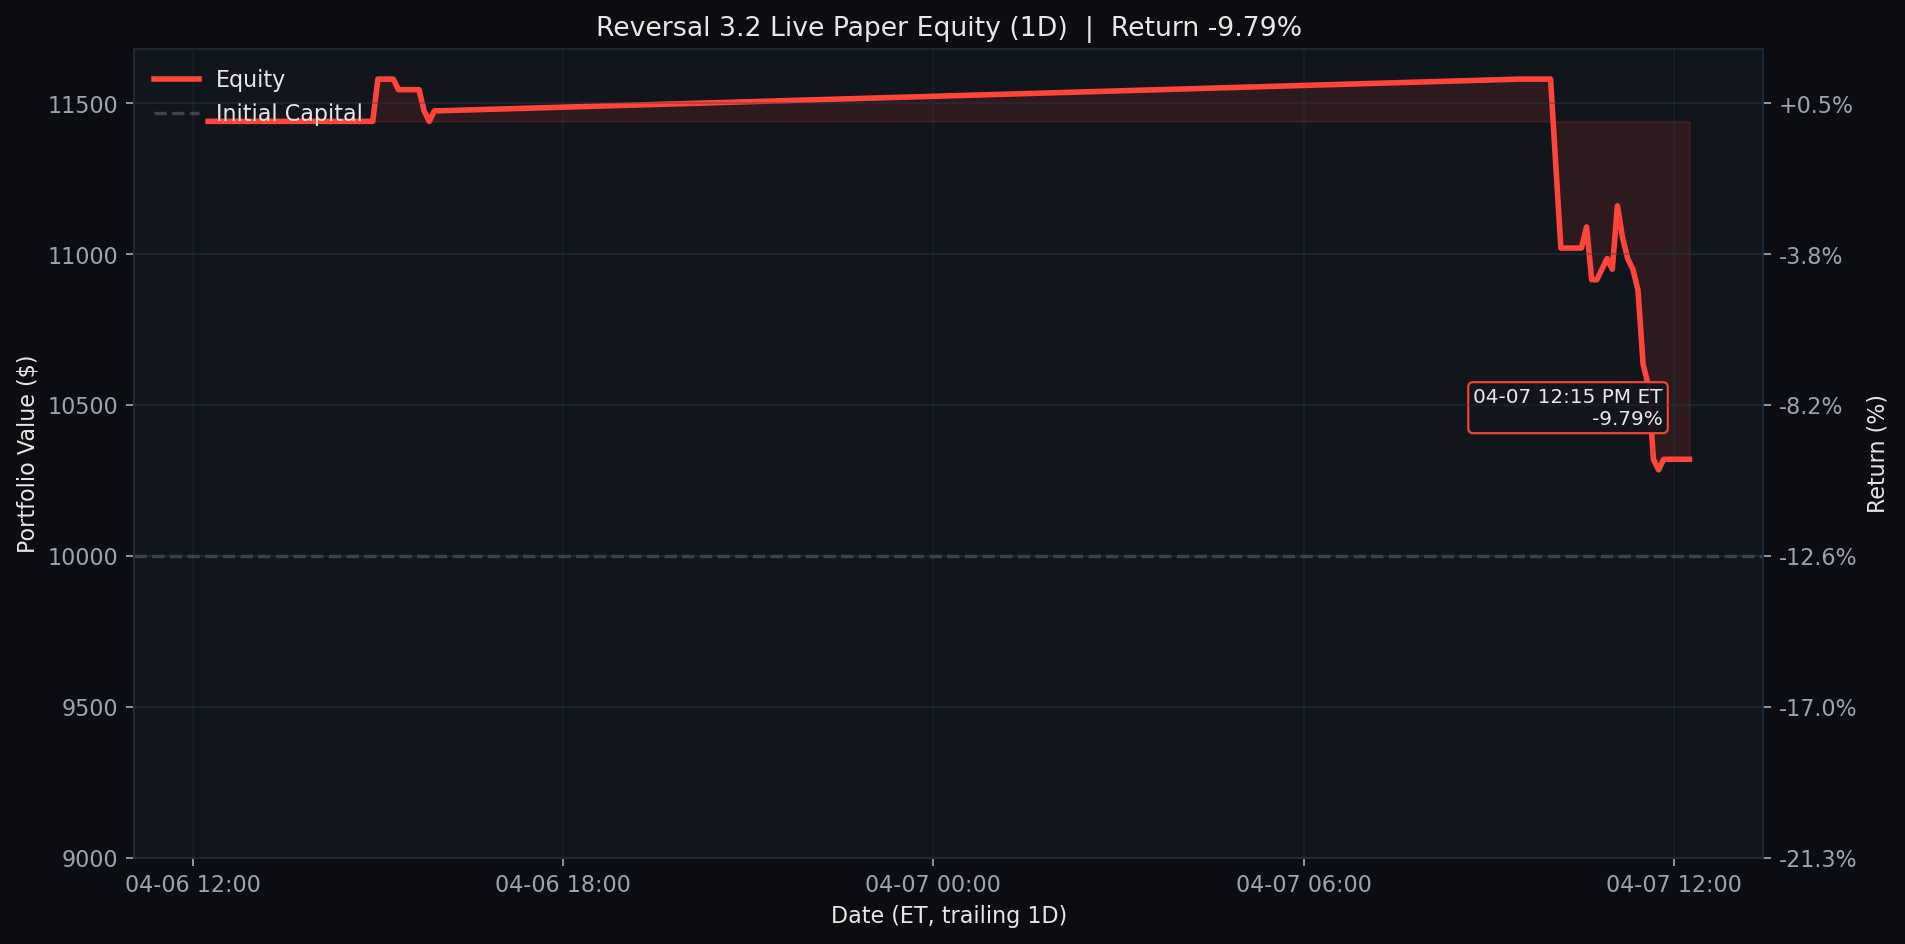
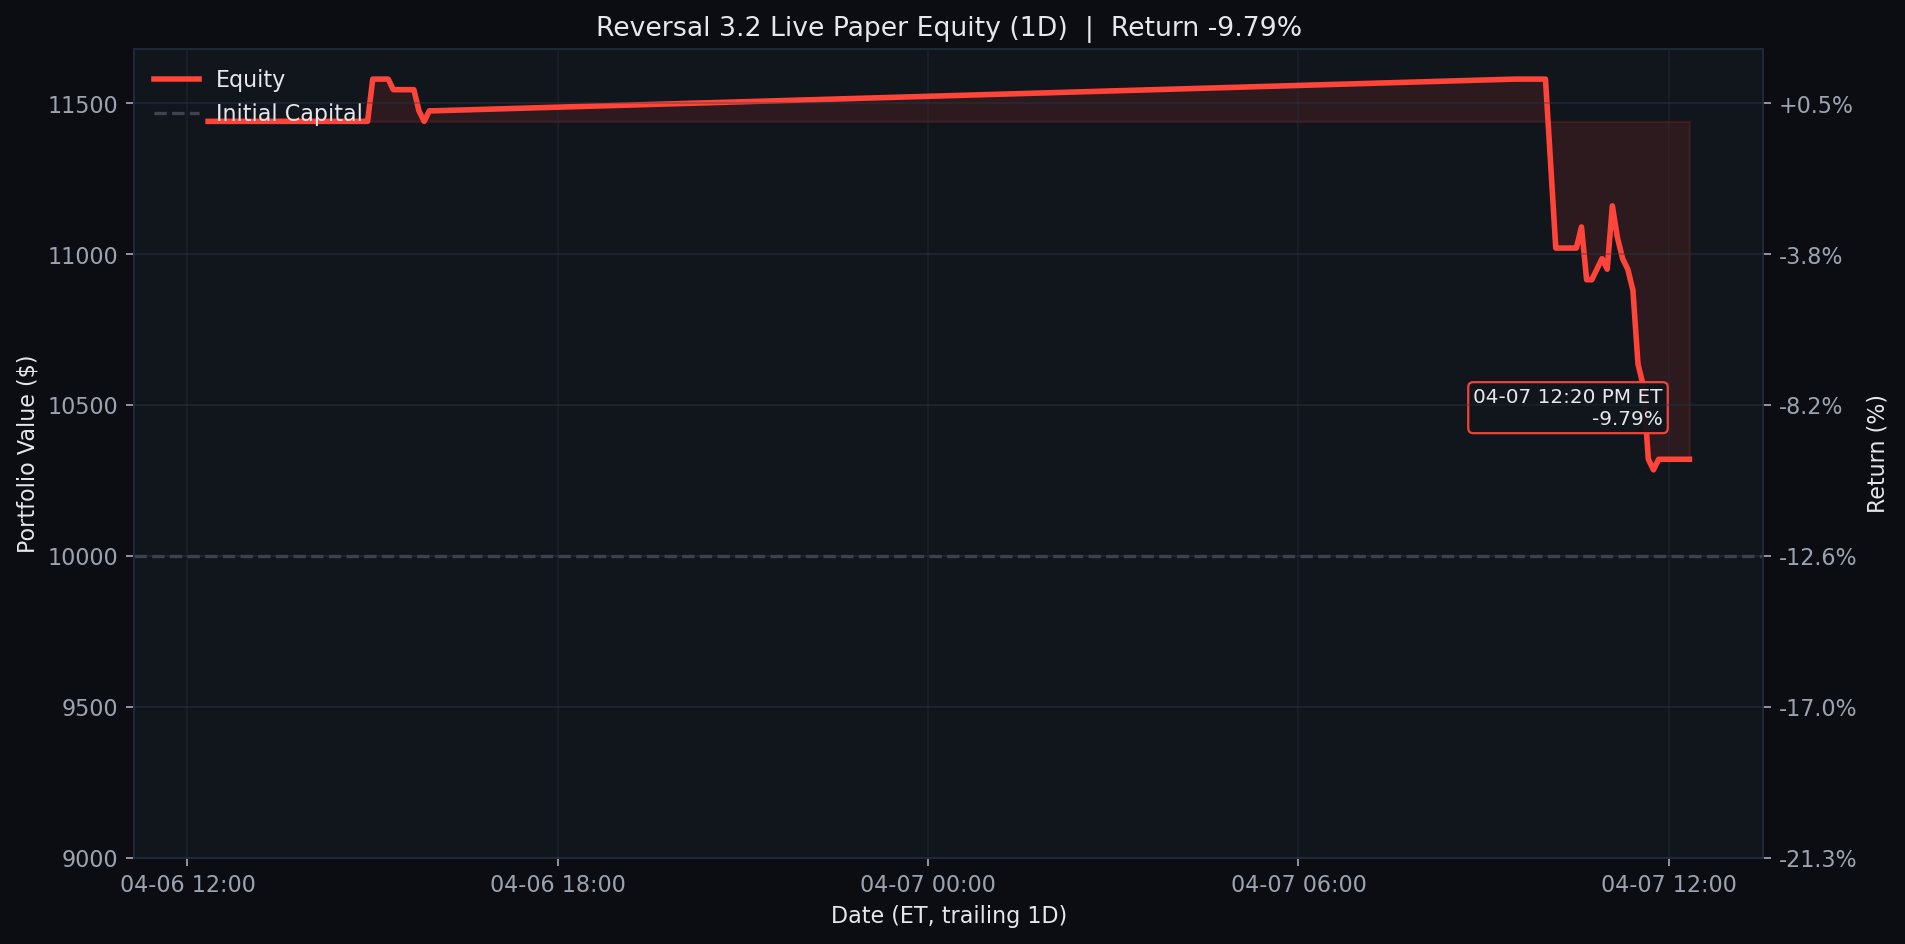
Update Reversal 3.2 live paper test 2026-04-07 12:20 ET

diff --git a/results/reversal_3_2_live/README.md b/results/reversal_3_2_live/README.md
@@ -1,7 +1,7 @@
 # Reversal 3.2 Live Paper Test
 
-Last updated (ET): `2026-04-07 12:15:04 EDT`
-Last processed slot: `manual_refresh`
+Last updated (ET): `2026-04-07 12:20:00 EDT`
+Last processed slot: `manage_1230`
 
 ## Active Configuration
 
@@ -40,18 +40,18 @@ ticker    contract_symbol entry_trade_date_et exit_trade_date_et  entry_option_p
 
 ```text
 ticker  success_rate_%  matched_signals  current_drop_%  target_rebound_$  target_price  rolling_sigma_20d_%  call_candidate
-  TSLA          100.00               13            3.52              8.68        349.10                42.33            True
-  MRVL           96.97               33            1.33              1.02        109.07                70.84            True
-  REGN           95.65               23            1.33              7.09        760.00                25.24            True
-  UPRO           92.59               27            1.61              1.13        100.25                53.86            True
-  NVDA           92.00               25            1.32              1.64        176.94                33.70            True
-  CDNS           90.91               44            0.83              1.62        278.70                25.26            True
-  ABNB           90.32               31            1.29              1.15        126.32                36.80            True
-  COST           90.32               31            0.65              4.62       1016.57                13.04            True
-  ORLY           89.74               39            0.64              0.41         91.95                23.11            True
-   KDP           89.47               19            0.55              0.10         25.66                20.32            True
-  PCAR           89.19               37            0.73              0.60        118.06                21.97            True
-  ASML           88.89               36            0.66              6.06       1301.41                47.16            True
+  TSLA          100.00               15            3.32              8.21        349.30                42.33            True
+  MRVL           96.77               31            1.39              1.06        109.05                70.84            True
+  REGN           95.65               23            1.39              7.41        759.87                25.24            True
+  UPRO           92.59               27            1.72              1.21        100.22                53.86            True
+  NVDA           92.00               25            1.37              1.70        176.91                33.70            True
+  CDNS           90.91               44            0.84              1.63        278.69                25.26            True
+  ABNB           90.32               31            1.36              1.21        126.29                36.80            True
+  COST           90.32               31            0.63              4.49       1016.62                13.04            True
+  ORLY           89.74               39            0.65              0.42         91.95                23.11            True
+   KDP           89.47               19            0.59              0.11         25.65                20.32            True
+  PCAR           88.89               36            0.75              0.62        118.05                21.97            True
+  ASML           88.57               35            0.69              6.31       1301.31                47.16            True
 ```
 
 ## Recent Events
@@ -77,20 +77,20 @@ Each chart is generated from the same live equity series with no-lookahead marks
 <details>
 <summary><strong>1D</strong></summary>
 
-![Reversal 3.2 Live Equity 1D](../../assets/reversal_3_2_live_equity_1d.png?v=20260407121504)
+![Reversal 3.2 Live Equity 1D](../../assets/reversal_3_2_live_equity_1d.png?v=20260407122000)
 
 </details>
 
 <details open>
 <summary><strong>1W</strong></summary>
 
-![Reversal 3.2 Live Equity 1W](../../assets/reversal_3_2_live_equity.png?v=20260407121504)
+![Reversal 3.2 Live Equity 1W](../../assets/reversal_3_2_live_equity.png?v=20260407122000)
 
 </details>
 
 <details>
 <summary><strong>1M</strong></summary>
 
-![Reversal 3.2 Live Equity 1M](../../assets/reversal_3_2_live_equity_1m.png?v=20260407121504)
+![Reversal 3.2 Live Equity 1M](../../assets/reversal_3_2_live_equity_1m.png?v=20260407122000)
 
 </details>

diff --git a/README.md b/README.md
@@ -3,10 +3,10 @@
 <!-- reversal-3.2-live:start -->
 ## Reversal 3.2 Live Paper Test
 
-- Last updated (ET): `2026-04-07 12:15:04 EDT`
+- Last updated (ET): `2026-04-07 12:20:00 EDT`
 - Equity: `$10,320.00` | Realized: `$320.00` | Unrealized: `$0.00` | Open positions: `0`
 - Today closed trades: `1`
-- Current slot: `manual_refresh`
+- Current slot: `manage_1230`
 - Universe: `qqq_plus_leverage_etfs`
 - Chart windows: `1D / 1W / 1M` (default open panel: `1W`)
 
@@ -17,21 +17,21 @@ _None_
 <details>
 <summary><strong>1D</strong></summary>
 
-![Reversal 3.2 Live Equity 1D](assets/reversal_3_2_live_equity_1d.png?v=20260407121504)
+![Reversal 3.2 Live Equity 1D](assets/reversal_3_2_live_equity_1d.png?v=20260407122000)
 
 </details>
 
 <details open>
 <summary><strong>1W</strong></summary>
 
-![Reversal 3.2 Live Equity 1W](assets/reversal_3_2_live_equity.png?v=20260407121504)
+![Reversal 3.2 Live Equity 1W](assets/reversal_3_2_live_equity.png?v=20260407122000)
 
 </details>
 
 <details>
 <summary><strong>1M</strong></summary>
 
-![Reversal 3.2 Live Equity 1M](assets/reversal_3_2_live_equity_1m.png?v=20260407121504)
+![Reversal 3.2 Live Equity 1M](assets/reversal_3_2_live_equity_1m.png?v=20260407122000)
 
 </details>
 
